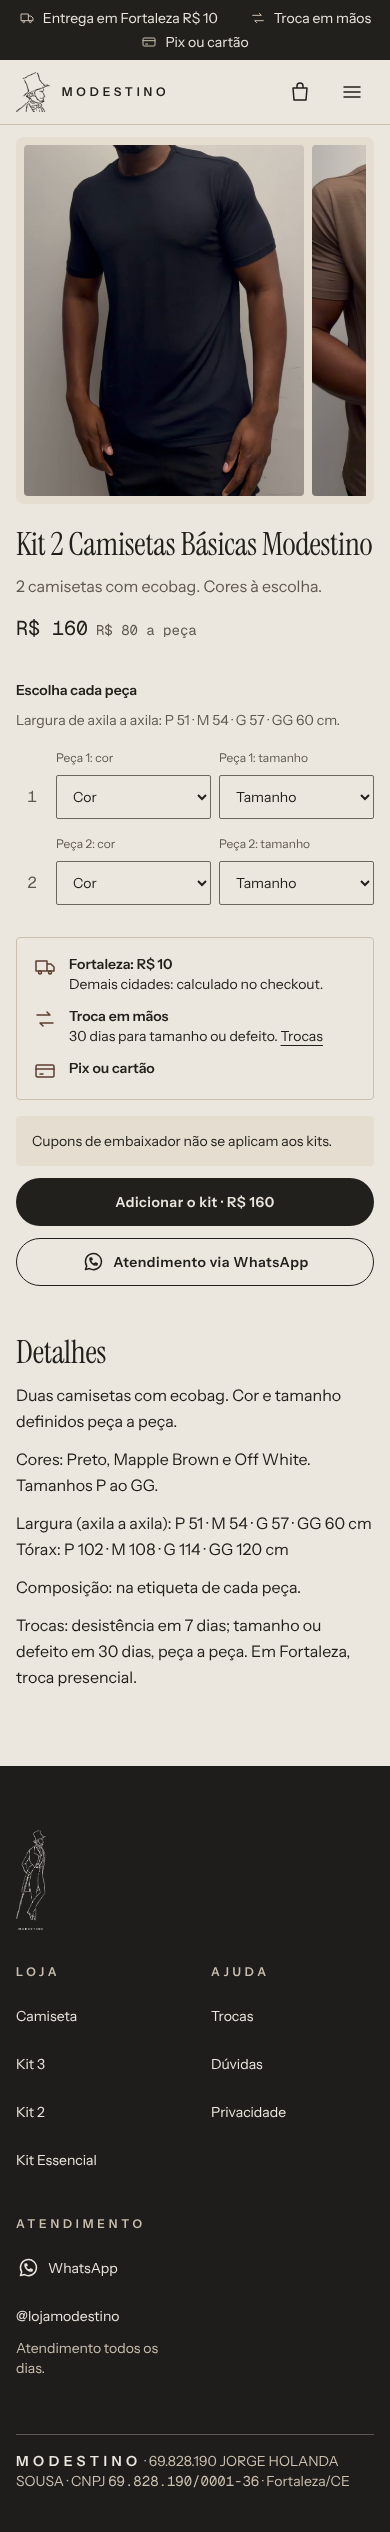
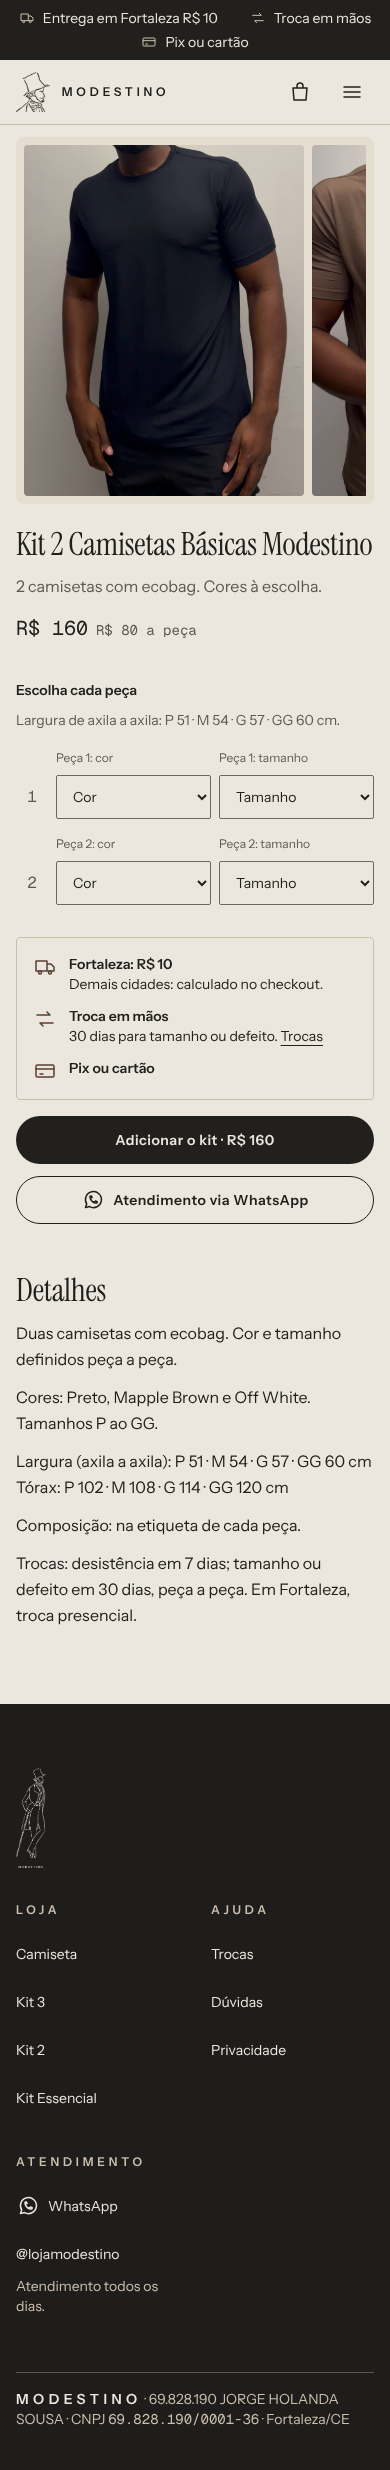
Loja: cupons de embaixador em toda a loja; registro da loja aberta
Claude-Session: https://claude.ai/code/session_01XyhGghdVvLcnYoXGzyzWry

diff --git a/loja/estado.md b/loja/estado.md
@@ -9,7 +9,7 @@ continuam no Painel da Modestino; estratégia e decisões na Central Modestino.
 | 0. Pré-requisitos | administrativo-modestino | loja/administrativo.md, politicas/ | 🟡 MEI aberto em 27/10 (CNPJ 69.828.190/0001-36) · políticas em rascunho · endereço do rodapé e teto proporcional do MEI a ver com o contador |
 | 1. Mapa das referências | loja-recon-modestino | loja/recon.md, features.csv | 🟡 recon público feito (27/10); falta página de produto completa e checkout pelo navegador do Jorge |
 | 2. O que o cliente odeia | loja-empreendedor-modestino | loja/reviews.csv, feedback.md, correcoes.md | ✅ 114 reclamações de 4 marcas (28/10); correcoes.md com 8 correções; frase A aprovada e 10 lavagens confirmadas (28/10) |
-| 3. Arquitetura | loja-arquitetura-modestino | loja/arquitetura.md | ✅ Shopify + Mercado Pago; cupons de 6% (`KEANU6`, `PAULOVITOR6`, criados na Shopify) só na avulsa; frete R$ 10 em Fortaleza saindo do Ponto J; pesos estimados para Correios (28/10) |
+| 3. Arquitetura | loja-arquitetura-modestino | loja/arquitetura.md | ✅ Shopify + Mercado Pago; cupons de 6% (`KEANU6`, `PAULOVITOR6`) em toda a loja, avulsa e kit (decisão de 27/10, noite); frete R$ 10 em Fortaleza saindo do Ponto J; pesos estimados para Correios (28/10) |
 | 4. Design | loja-design-modestino | loja/design/ | ✅ tokens, componentes, amostra e logo do Drive aplicado (PNG transparente + favicon); SVG opcional |
 | 5. Catálogo e estoque | catalogo-modestino | loja/catalogo.csv, estoque.csv, catalogo/ | 🟡 4 rascunhos na Shopify `nnwyy4-vp` (27/10): camiseta com 12 variantes e 212 peças no Ponto J; SEO gravado; fotos **provisórias** (frames dos vídeos do Keanu, 27/10); faltam fotos de estúdio e seleção por peça nos kits |
 | 6. Construção | loja-build-modestino | loja/build-log.md, loja/tema/ | 🟡 tema de construção montado (27/10, não publicado, loja com senha): casca + S01, S03/S04, S05, S11–S13 com todos os estados; fotos **provisórias** dos vídeos do Keanu; falta S02, S14, prints da prévia real e ligar a entrega local |
@@ -74,3 +74,7 @@ Ativos desde 27/10 00:00 (Fortaleza), para todos os clientes. Comissão do embai
 ## Fotos provisórias (27/10/2026)
 
 **As fotos da loja são provisórias:** 8 quadros dos vídeos do Keanu (preta: frente e ombro; mapple brown: frente, gola e lado; off white: frente, costas e gola), em `loja/fotos-provisorias/`. Estão na Camiseta Básica (cada cor ligada às suas variantes) e nos 3 kits (as 3 frentes). **O Jorge vai mandar fotos novas**; quando chegarem, trocar todas, incluindo costas da preta e da mapple brown, que não existem nos vídeos.
+
+## Loja aberta (27/10/2026, 23h)
+
+Tema "Modestino (construção)" publicado e senha desligada pelo admin. Conferir com o Jorge se foi intencional e se o Mercado Pago saiu do modo teste. Cupons de embaixador valem em toda a loja (avulsa e kit), sem limite de usos, sem acumular.

diff --git a/loja/build-log.md b/loja/build-log.md
@@ -1,5 +1,12 @@
 # Construção da loja — registro
 
+## 27/10/2026 (23h) — loja aberta e cupons em toda a loja
+
+- Às 23:11 o tema "Modestino (construção)" (`167188168752`) passou a ser o publicado (MAIN) e a senha da loja foi desligada, pelo admin (não por esta sessão). O Horizon antigo (`166315229232`) virou não publicado. A partir daqui o conector **não escreve mais nesse tema** (bloqueio de tema publicado): mudanças vão numa cópia duplicada pelo Jorge e publicada por ele.
+- Cupons `KEANU6` e `PAULOVITOR6` (decisão do Jorge): 6% em qualquer compra, avulsa ou kit; sem limite de usos (limite é o estoque); continuam sem acumular com outro desconto. Atualizados e conferidos na Shopify.
+- Textos do tema ajustados no repositório (aviso de "cupom não vale no kit" removido do kit e do carrinho; pergunta frequente reescrita), **mas não enviados**: o tema agora está publicado. Ficam para a cópia.
+- Políticas de privacidade e reembolso com o endereço do CNPJ, conferidas pela API.
+
 ## 27/10/2026 (noite) — entrega local conferida no checkout
 
 Print do Jorge no checkout (CEP de Fortaleza, depois de refazer a configuração): "Entrega local R$ 10,00 — Entrega própria em Fortaleza. Combinamos o horário pelo WhatsApp." com campo de celular obrigatório, e "Padrão R$ 22,00 — 3 a 5 dias úteis" como segunda opção. Falta só conferir um CEP de fora (61600-000, Caucaia: deve aparecer só o Padrão).
